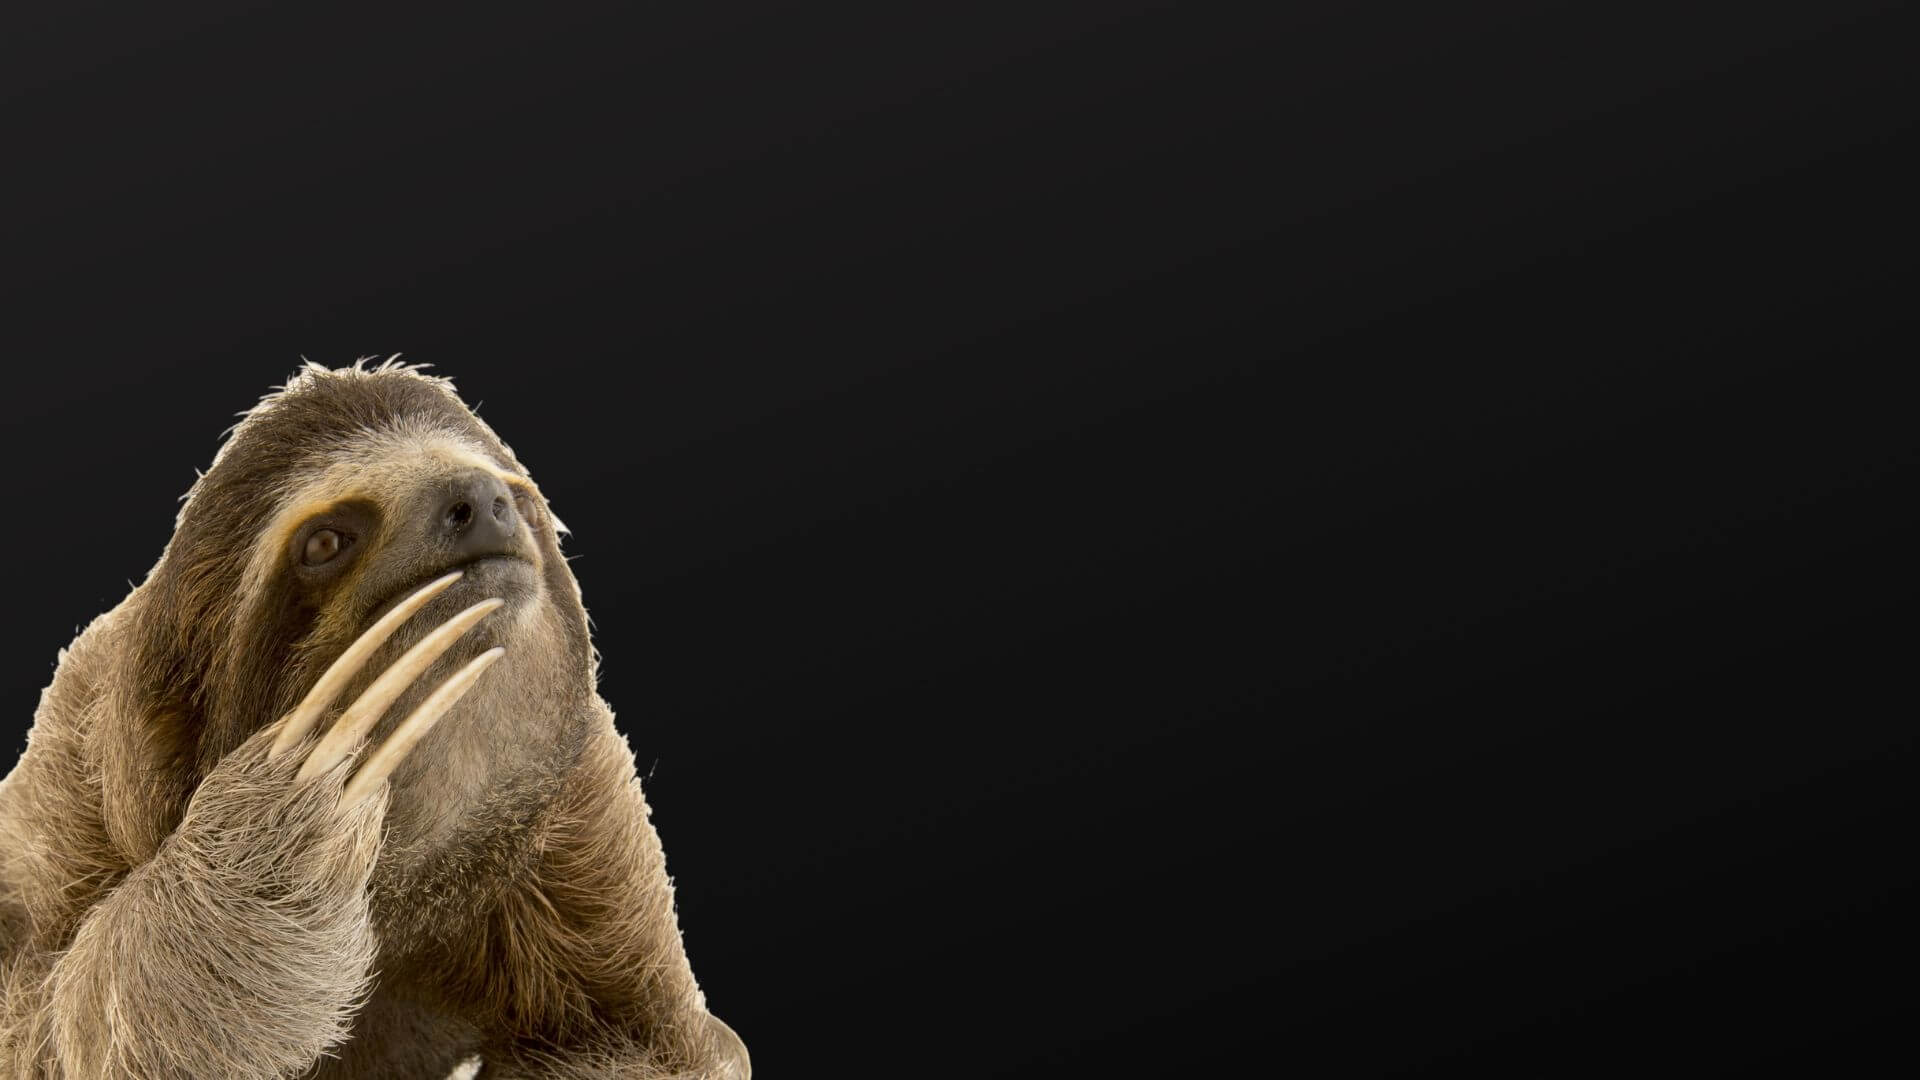
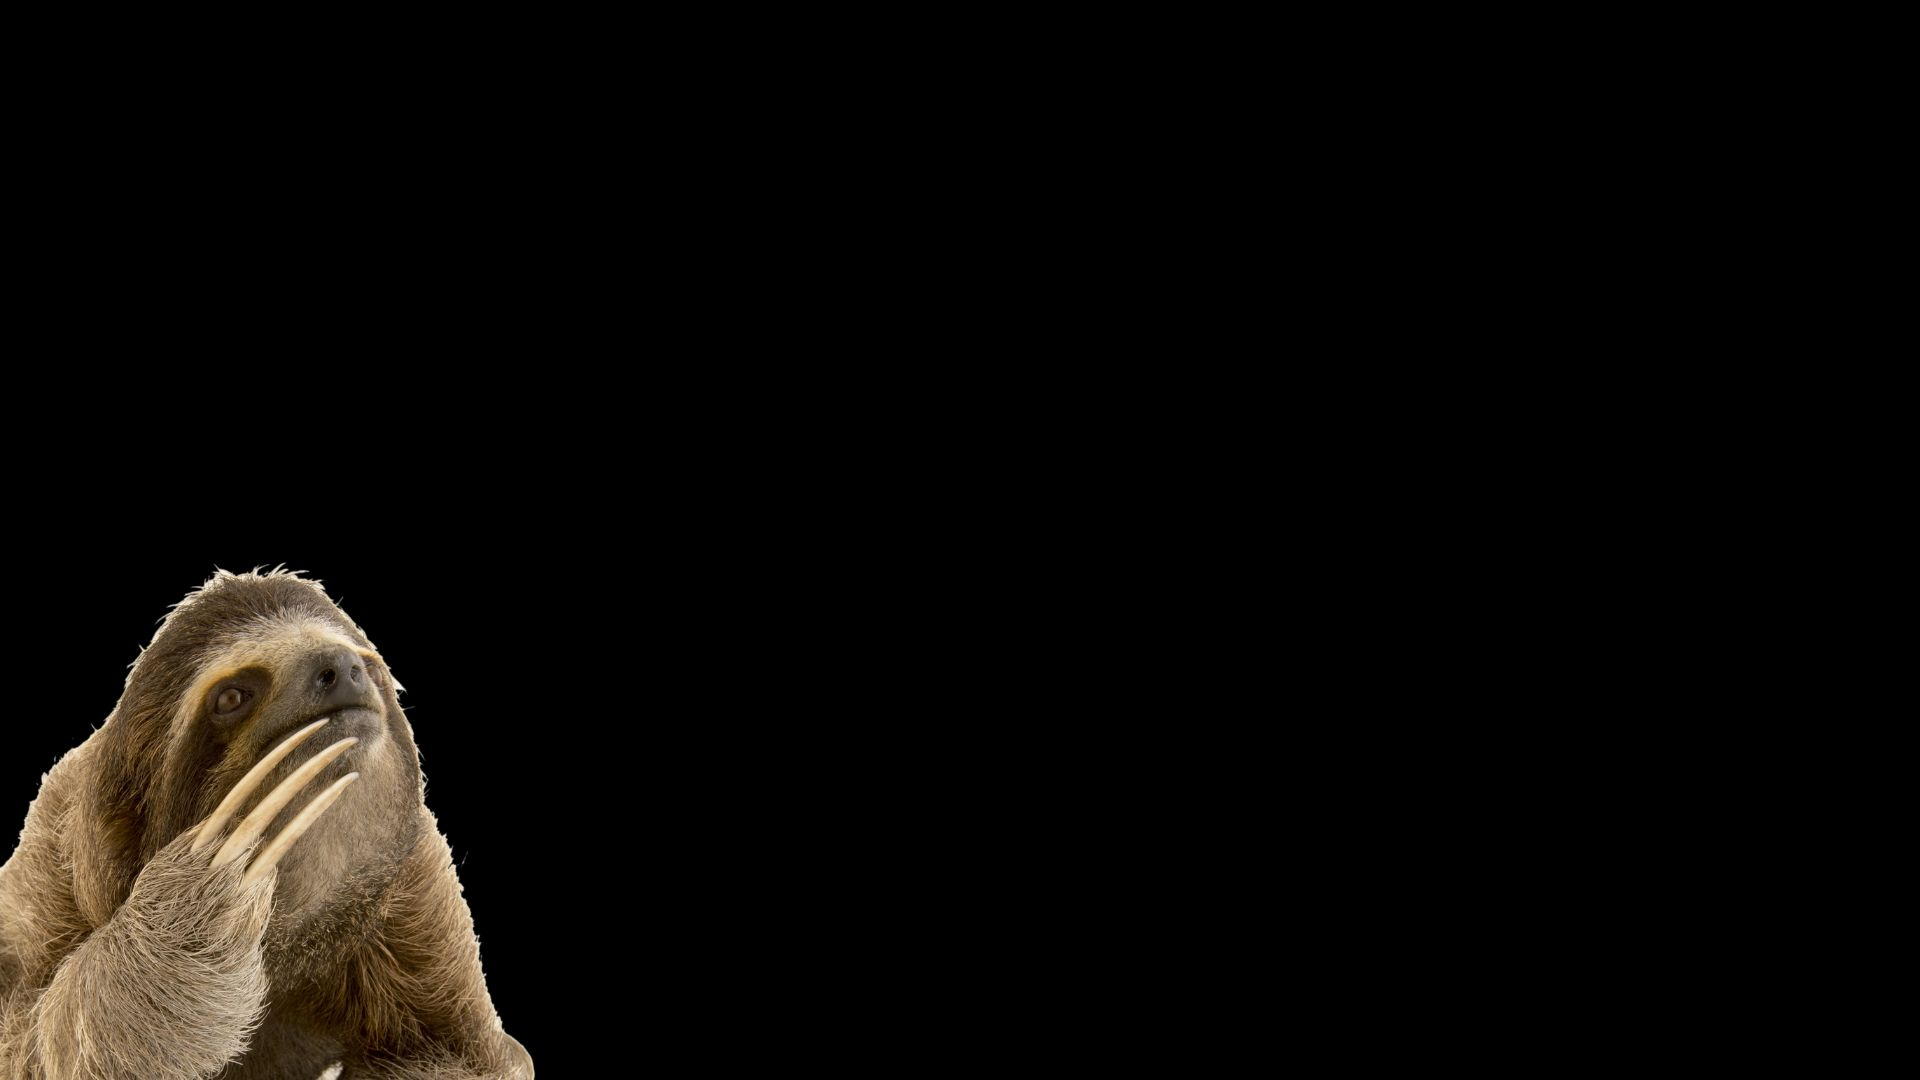
cambia fondo

diff --git a/public/css/cover.css b/public/css/cover.css
@@ -26,13 +26,20 @@ a:hover {
 
 html,
 body {
+  height: 100%;
+  background-color: #333;
   background: url("../img/background.jpg") no-repeat center center fixed;
   -webkit-background-size: cover;
   -moz-background-size: cover;
   -o-background-size: cover;
   background-size: cover;
-  height: 100%;
-  background-color: #333;
+  /* @media screen and (min-width: 900px) {
+    background: url("../img/background.jpg") no-repeat center center fixed;
+    -webkit-background-size: cover;
+    -moz-background-size: cover;
+    -o-background-size: cover;
+    background-size: cover;
+  } */
 }
 body {
   display: -ms-flexbox;
